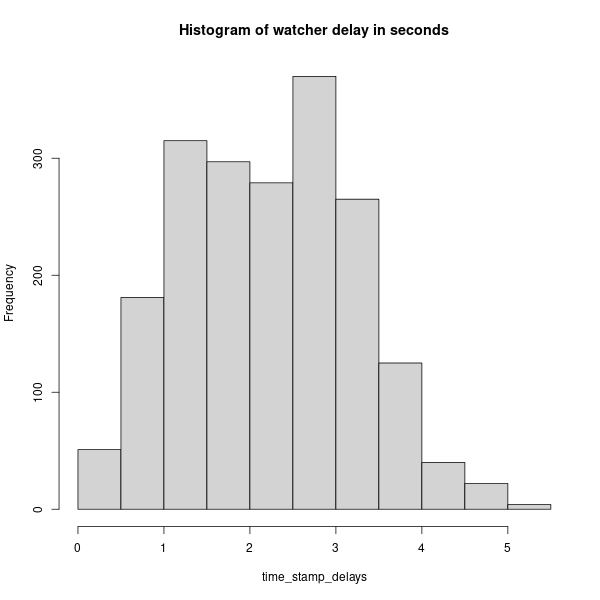
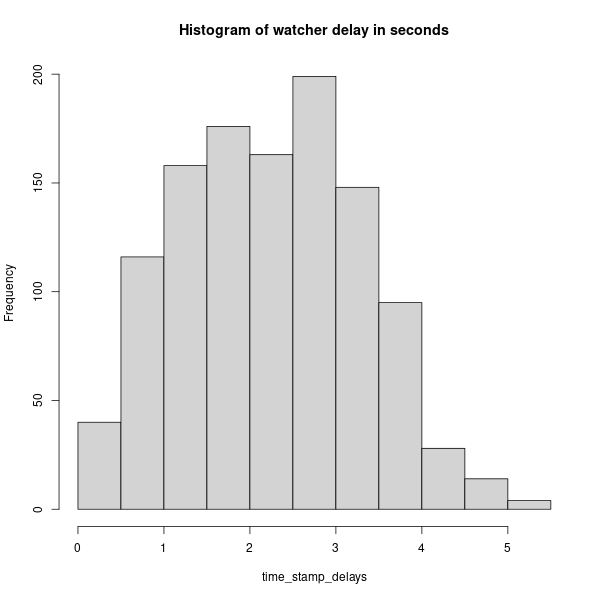
Added data files to .gitignore, and more stats

diff --git a/hive-watcher/examples/out-as-csv/hive-watcher-simple.py b/hive-watcher/examples/out-as-csv/hive-watcher-simple.py
@@ -53,6 +53,38 @@ def configure_logging():
         except:
             logging.basicConfig(filename="errors.log", encoding='utf-8', level=logging.ERROR)
 
+def write_post_to_csv(post,filepath_data):
+    fieldnames = [
+        'timestamp_seen','timestamp_post',
+        'id','type','trx_id','trx_num','block_num',
+        'required_auths','required_posting_auths','json'
+    ]
+    # build a new custom dictionary from the post
+    post_row={
+        'timestamp_seen':repr(time.time()),
+        'timestamp_post':repr(post.get("timestamp").timestamp()),
+        'id':str(post.get("id")),
+        'type':str(post.get("type")),
+        'trx_id':str(post.get("trx_id")),
+        'trx_num':repr(post.get("trx_num")),
+        'block_num':repr(post.get("block_num")),
+        'required_auths':repr(post.get("required_auths")),
+        'required_posting_auths':repr(post.get("required_posting_auths")),
+        'json':repr(json.dumps(json.loads(post.get("json")), indent=4))
+    }
+    # csv writer, see: https://docs.python.org/3/library/csv.html
+    if os.path.isfile(filepath_data) :
+        with open(filepath_data,'a', newline='') as csvfile:
+            writer = csv.DictWriter(csvfile, fieldnames=fieldnames)
+            writer.writerow(post_row)
+            csvfile.close
+    else :
+        with open(filepath_data,'w', newline='') as csvfile:
+            writer = csv.DictWriter(csvfile, fieldnames=fieldnames)
+            writer.writeheader()
+            writer.writerow(post_row)
+            csvfile.close
+
 def main():
     # setup file output
     configure_logging()
@@ -68,44 +100,17 @@ def main():
     stream = blockchain.stream(
         opNames=["custom_json"], raw_ops=False, threading=False, thread_num=4
     )
-    post_row = []
-
     for post in stream:
         try:
-             # Filter only on post ID from the list above.
-             if allowed_op_id(post["id"]):
-                 # Filter by the accounts we have authorised to podping
-                 if set(post["required_posting_auths"]) & allowed_accounts:
-                     # build a new custom dictionary from the post
-                     post_row={
-                         'timestamp_seen':repr(time.time()),
-                         'timestamp_post':repr(post.get("timestamp").timestamp()),
-                         'id':str(post.get("id")),
-                         'type':str(post.get("type")),
-                         'trx_id':str(post.get("trx_id")),
-                         'trx_num':repr(post.get("trx_num")),
-                         'block_num':repr(post.get("block_num")),
-                         'required_auths':repr(post.get("required_auths")),
-                         'required_posting_auths':repr(post.get("required_posting_auths")),
-                         'json':repr(json.dumps(json.loads(post.get("json")), indent=4))
-                     }
-                     # csv writer, see: https://docs.python.org/3/library/csv.html
-                     fieldnames = [
-                         'timestamp_seen','timestamp_post',
-                         'id','type','trx_id','trx_num','block_num',
-                         'required_auths','required_posting_auths','json'
-                     ]
-                     if os.path.isfile('data.csv') :
-                         with open('data.csv','a', newline='') as csvfile:
-                             writer = csv.DictWriter(csvfile, fieldnames=fieldnames)
-                             writer.writerow(post_row)
-                             csvfile.close
-                     else :
-                         with open('data.csv','w', newline='') as csvfile:
-                             writer = csv.DictWriter(csvfile, fieldnames=fieldnames)
-                             writer.writeheader()
-                             writer.writerow(post_row)
-                             csvfile.close
+            # Filter only on post ID from the list above.
+            if allowed_op_id(post["id"]):
+                # Filter by the accounts we have authorised to podping
+                if set(post["required_posting_auths"]) & allowed_accounts:
+                    write_post_to_csv(post,'data.csv')
+                else : # Write out the same data to the data-unauthorized.csv file...
+                    write_post_to_csv(post,'data-unauthorized.csv')
+            else : # the firehose - all other hive 'custom json' posts to data-not-podping_firehose.csv
+                write_post_to_csv(post,'data-not-podping_firehose.csv')
         except: # catch *all* errors
             logging.error(sys.exc_info()[0])
 
